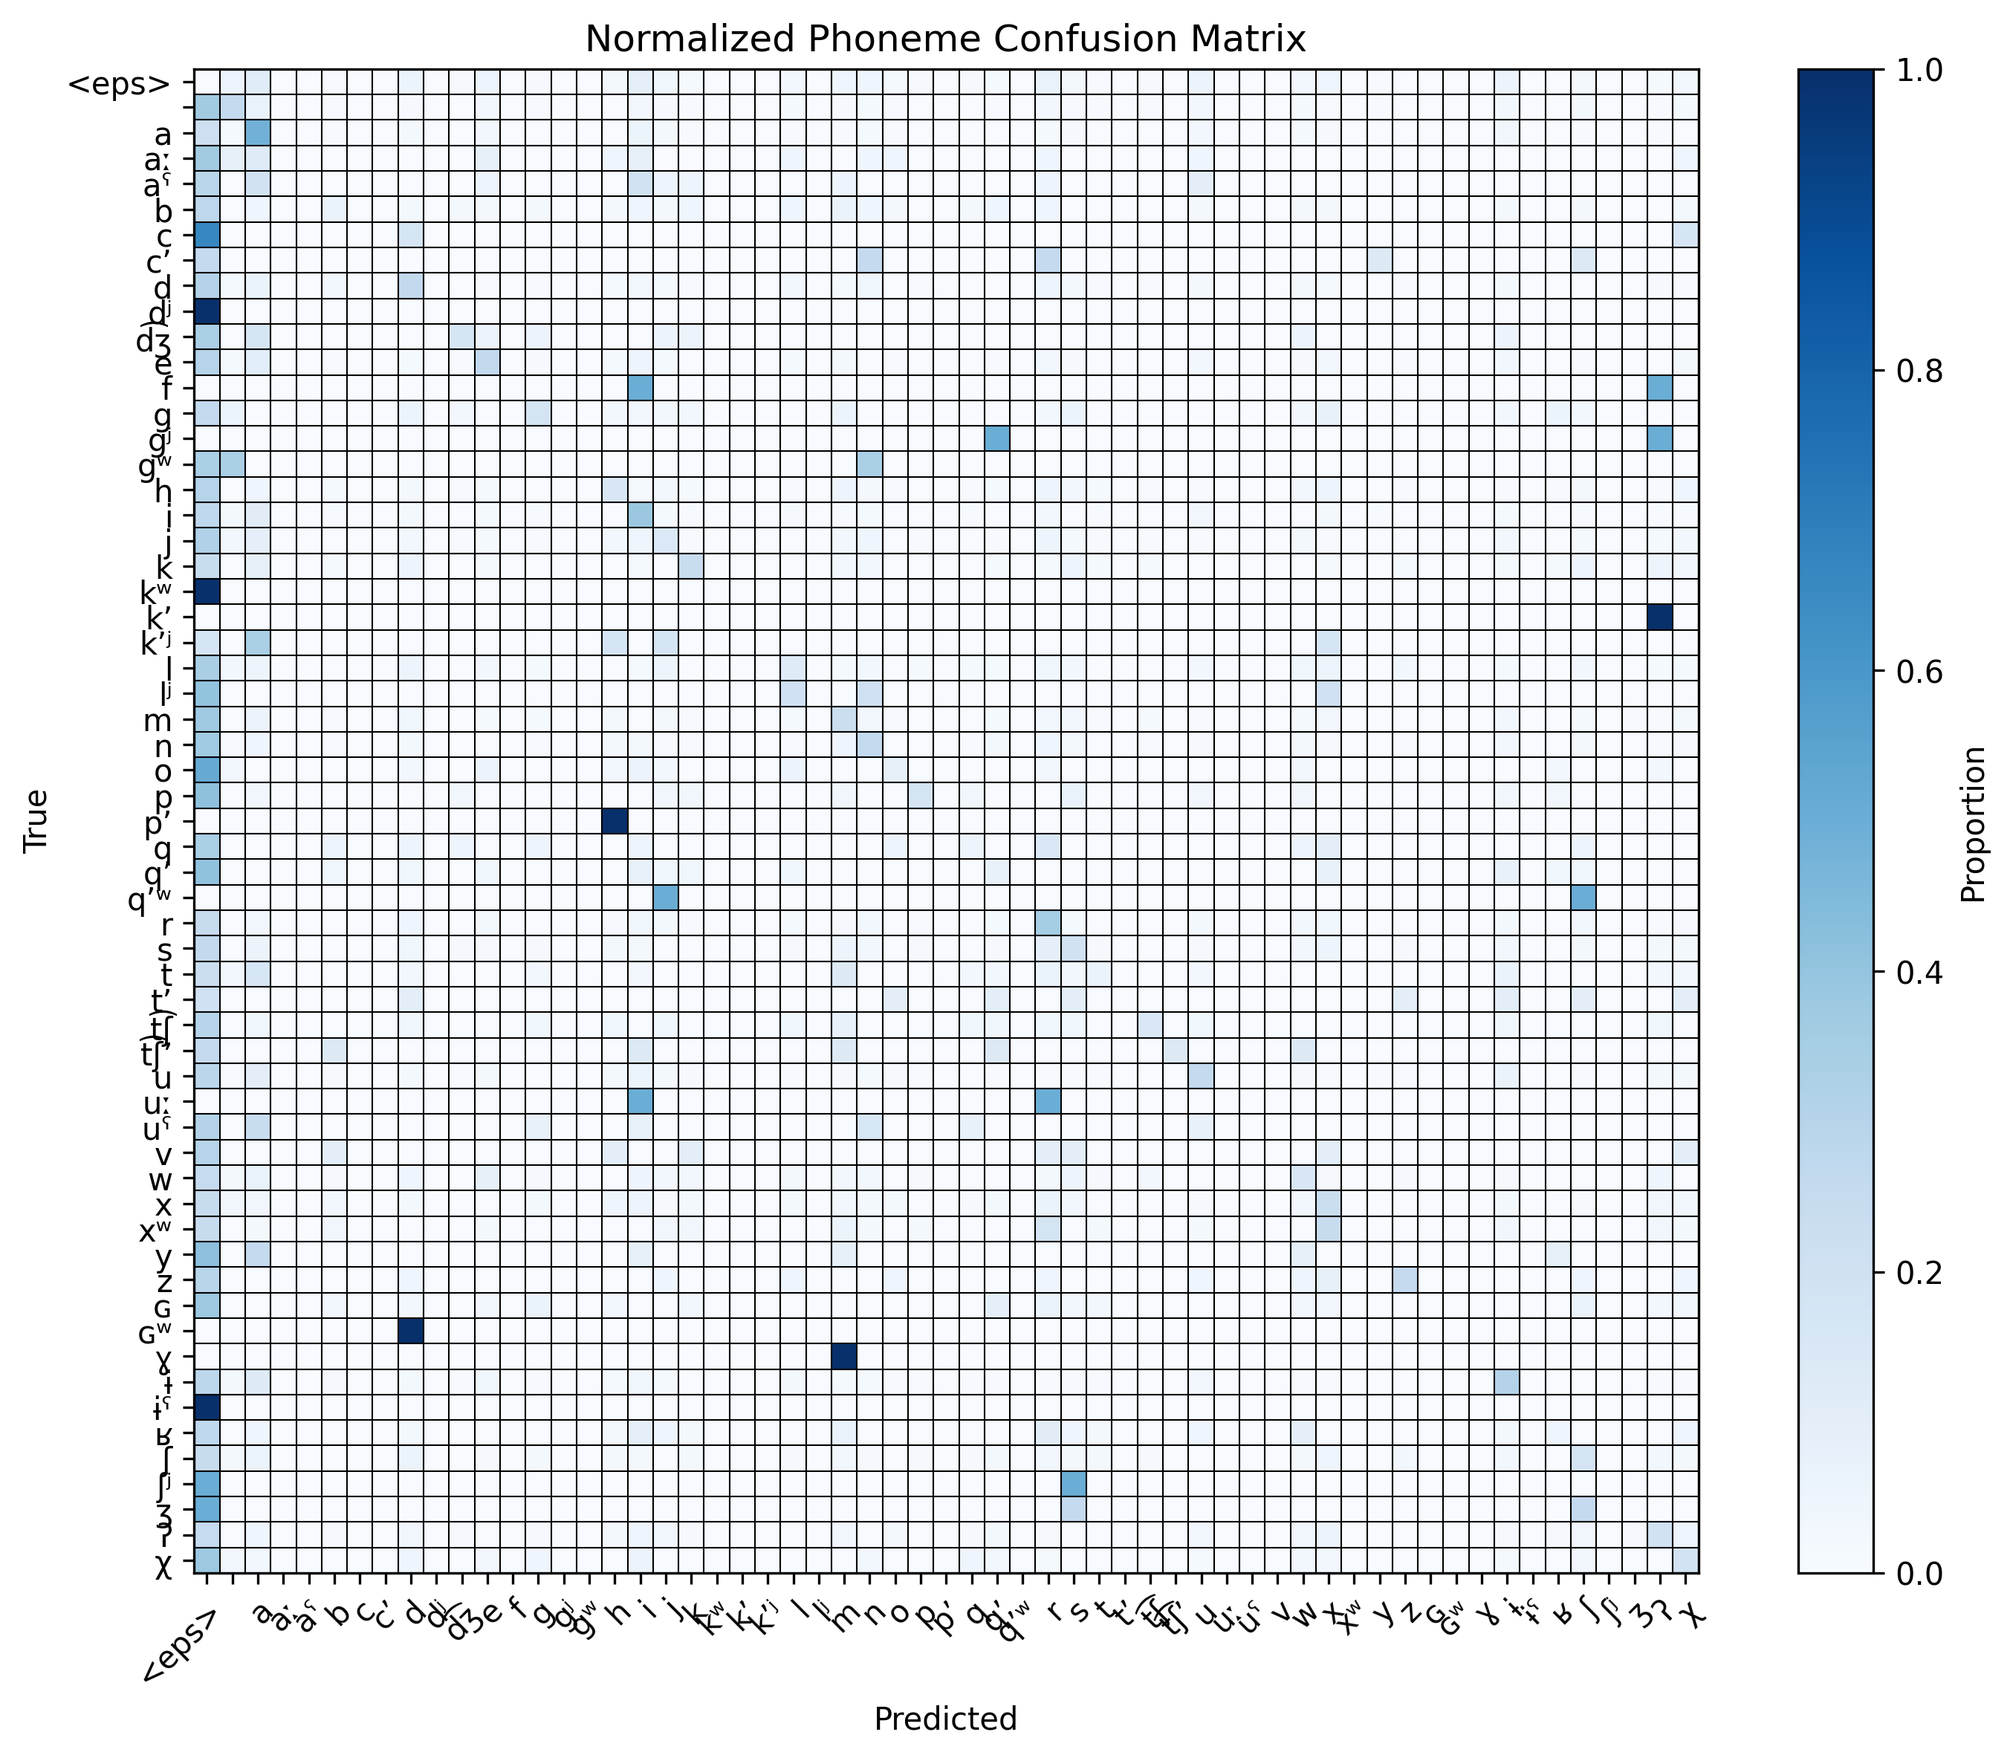
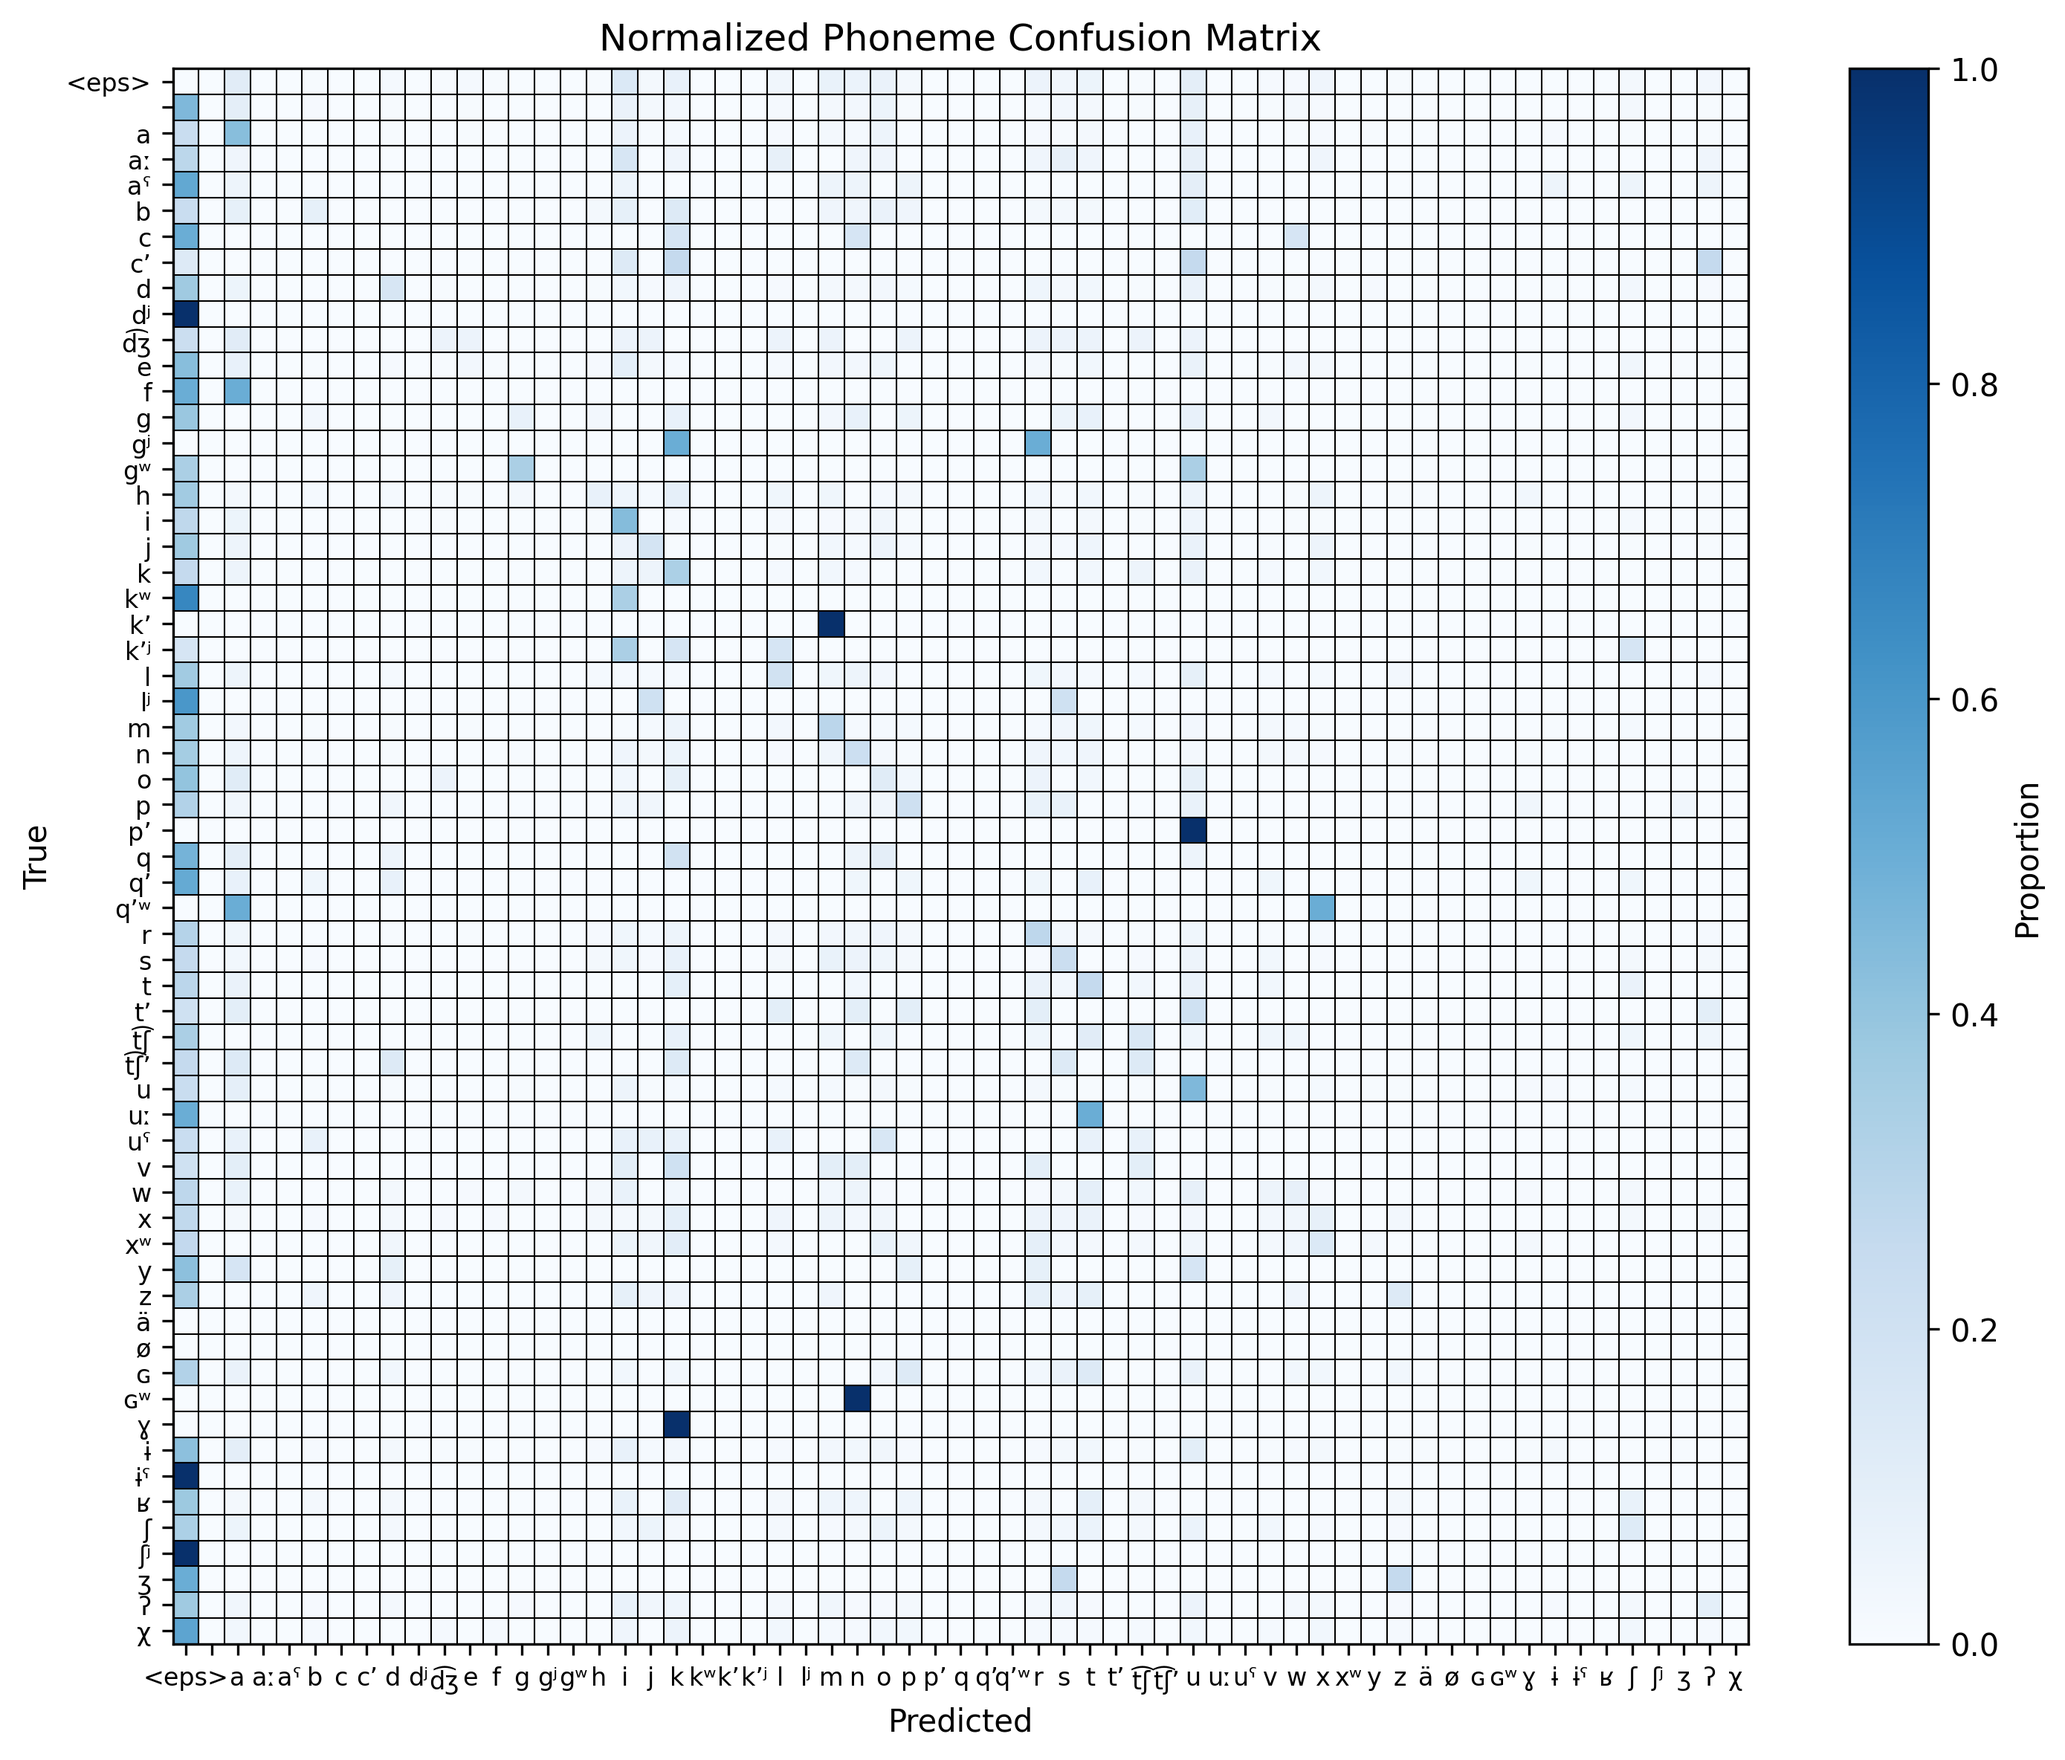
fix: ticks' size in confusion matrix

Changed region(s): [[0.0311, 0.0, 0.8695, 0.9873], [0.9316, 0.0309, 0.9937, 0.9565], [0.0, 0.4628, 0.0311, 0.4937]]

diff --git a/src/utils.py b/src/utils.py
@@ -178,12 +178,22 @@ def compute_char_stats(pred_str, ref_str):
 
 
 def plot_confusion_matrix(cm, labels, title="Normalized Phoneme Confusion Matrix", cmap="Blues", savepath=None):
+    # replace label <eps> with - (hyphen)
+    labels = ["-" if l == "<eps>" else l for l in labels]
+    
+    # Normalize confusion matrix by row
     cm_norm = cm.astype("float") / cm.sum(axis=1)[:, np.newaxis]
     cm_norm = np.nan_to_num(cm_norm)
 
     fig, ax = plt.subplots(figsize=(10, 8))
     im = ax.imshow(cm_norm, interpolation="nearest", cmap=cmap)
 
+    # reduce font size of ticks if too many labels
+    if len(labels) > 20:
+        plt.xticks(fontsize=8)
+        plt.yticks(fontsize=8)
+    
+    
     plt.colorbar(im, ax=ax, label="Proportion")
 
     ax.set_xticks(np.arange(len(labels)))
@@ -200,7 +210,6 @@ def plot_confusion_matrix(cm, labels, title="Normalized Phoneme Confusion Matrix
     ax.set_xlabel("Predicted")
     ax.set_ylabel("True")
     plt.title(title)
-    plt.setp(ax.get_xticklabels(), rotation=45, ha="right", rotation_mode="anchor")
 
     plt.tight_layout()
     if savepath:
@@ -248,4 +257,4 @@ def compute_metrics(pred, processor, tokenized_dataset, save_results=False, resu
         with open(os.path.join(results_folder, "stats.json"), "w", encoding="utf-8") as f:
             json.dump(stats_dict, f, indent=4, ensure_ascii=False)
     
-    return {"wer": wer_val, "cer": cer_val, "char_f1": char_stats["f1"]}
+    return {"wer": round(wer_val,3), "cer": round(cer_val,3), "char_f1": round(char_stats["f1"],3)}
